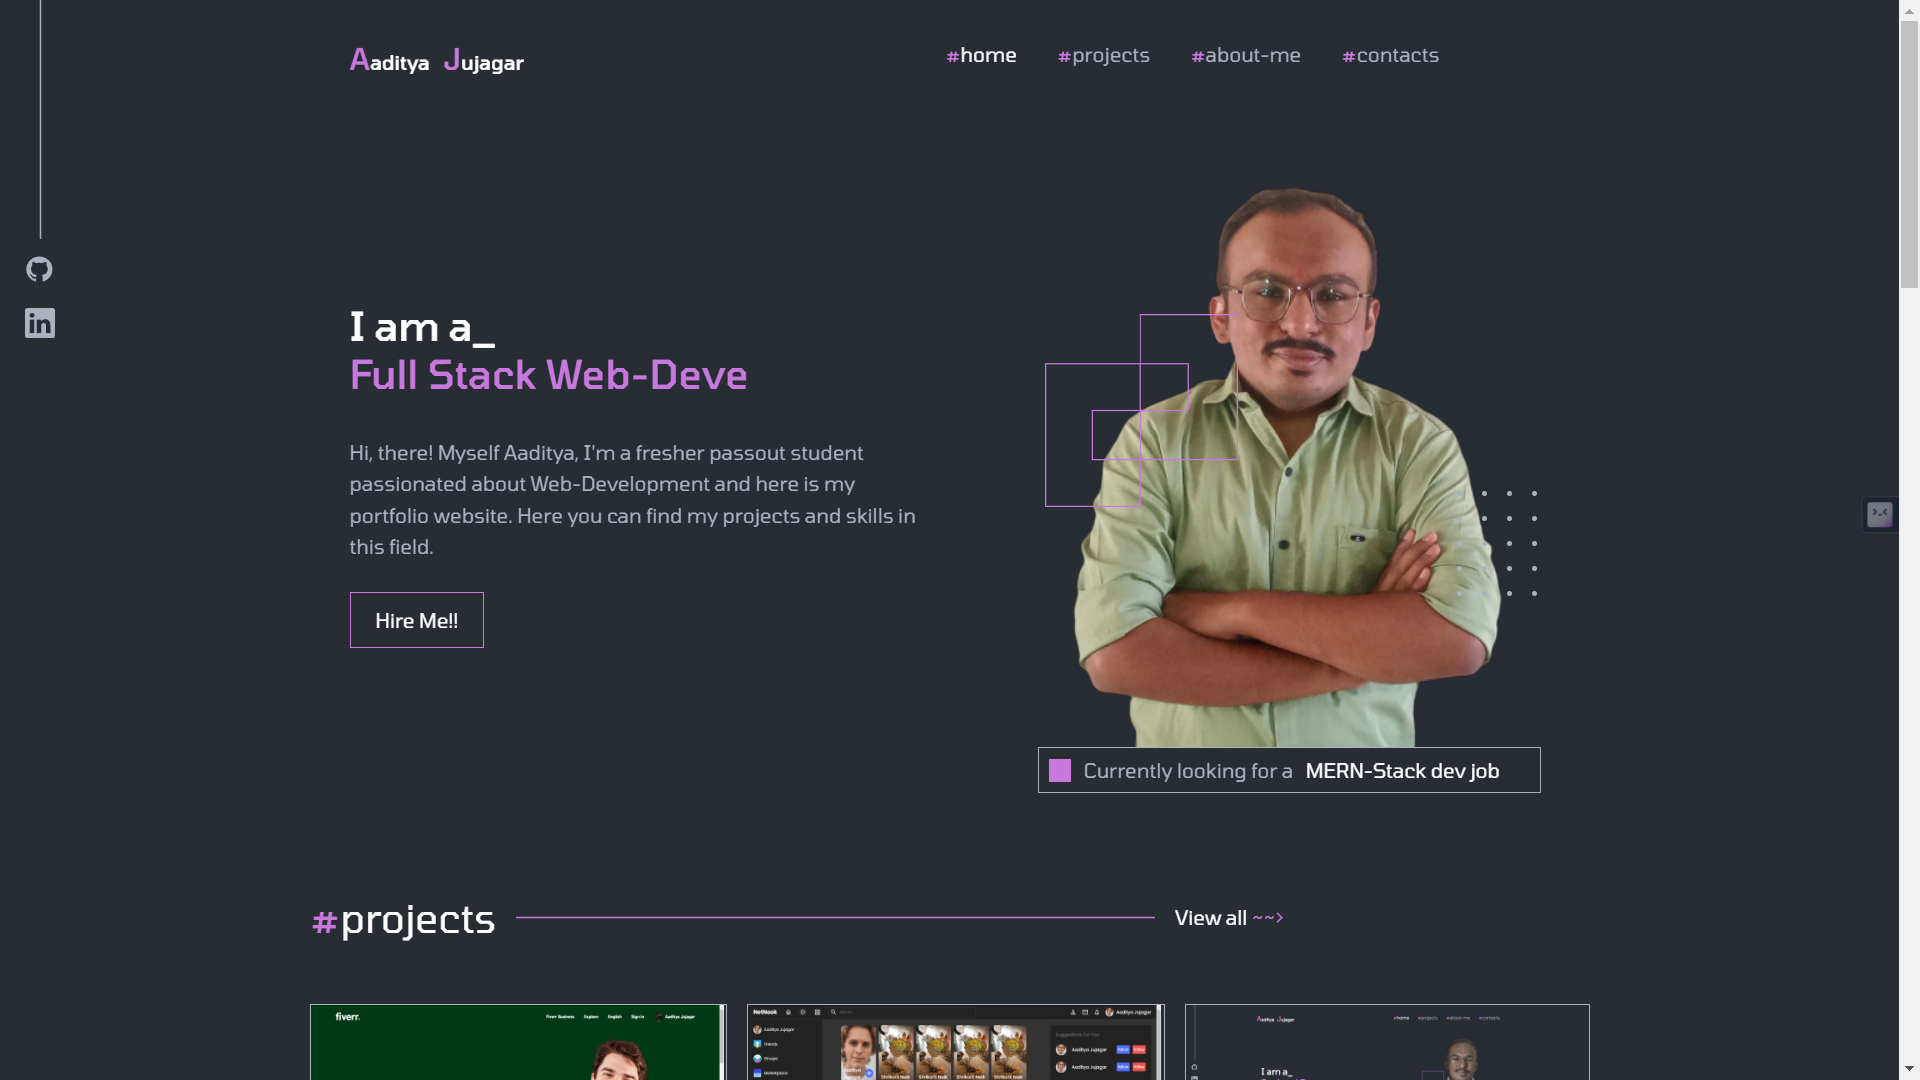
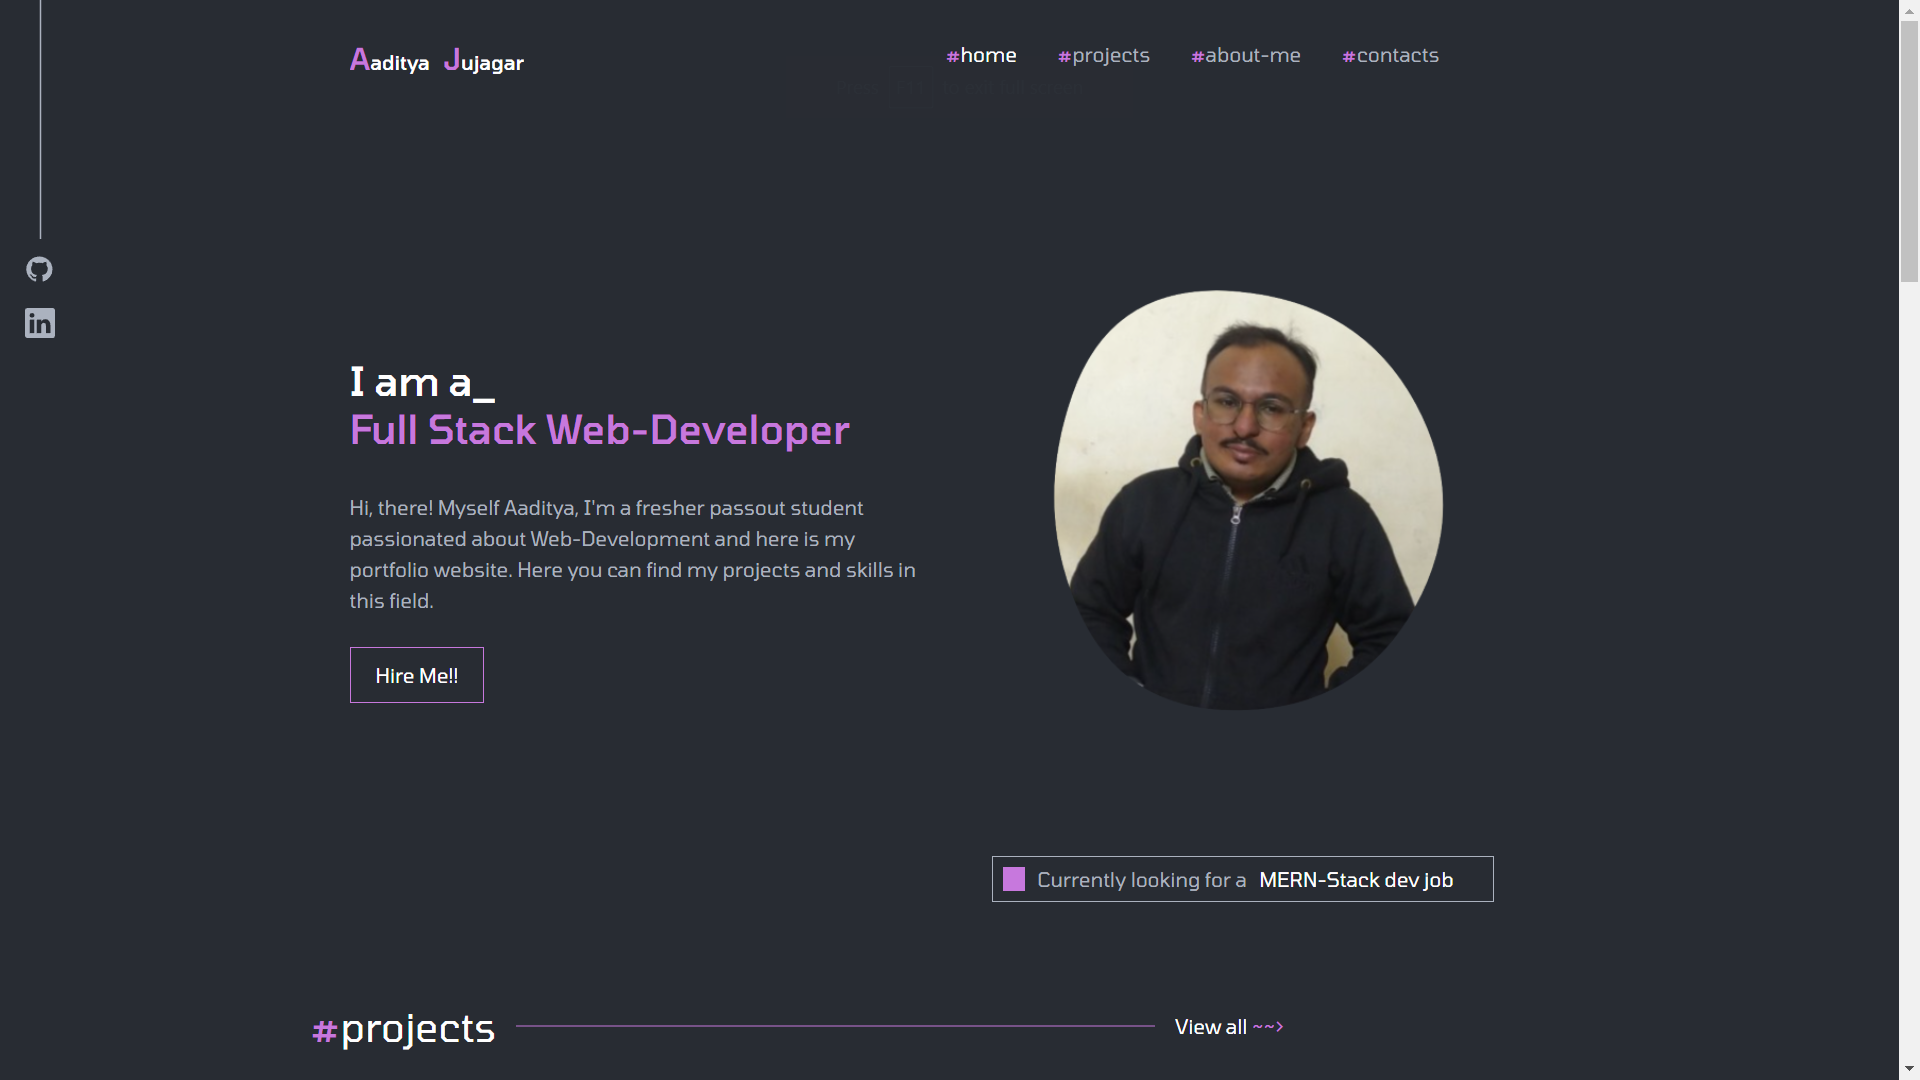
portfolio thumb changed

diff --git a/public/index.html b/public/index.html
@@ -3,7 +3,7 @@
   <head>
     <meta charset="utf-8" />
     <meta name="viewport" content="width=device-width, initial-scale=1" />
-    <title>Aaditya Jujagar</title>
+    <title>Portfolio | Aaditya Jujagar</title>
     <link rel="icon" type="image/x-icon" href="./favicon.ico" />
 
     <!-- Fira Code font family -->
@@ -20,7 +20,7 @@
 
     <!-- root file being rendered -->
     <div id="root"></div>
-    
+
     <!-- dynamic text changing library -->
     <script src="https://cdn.jsdelivr.net/npm/typed.js@2.0.12/dist/typed.min.js"></script>
   </body>

diff --git a/src/components/HeroSec/HeroSec.jsx b/src/components/HeroSec/HeroSec.jsx
@@ -52,8 +52,8 @@ function HeroSec() {
           <img src={HeroImg} className="heroImg" alt="" />
           <div className="heroStatus">
             <img className="heroStatusImg" src={BlockPrimary} alt="" />
-            <p>Currently looking for a</p>
-            <span>MERN-Stack dev job</span>
+            <p>Open to work as a</p>
+            <span>MERN-Stack developer</span>
           </div>
           {/* <img src={DotsFrame1} className="dotFrame" alt="" /> */}
         </div>
